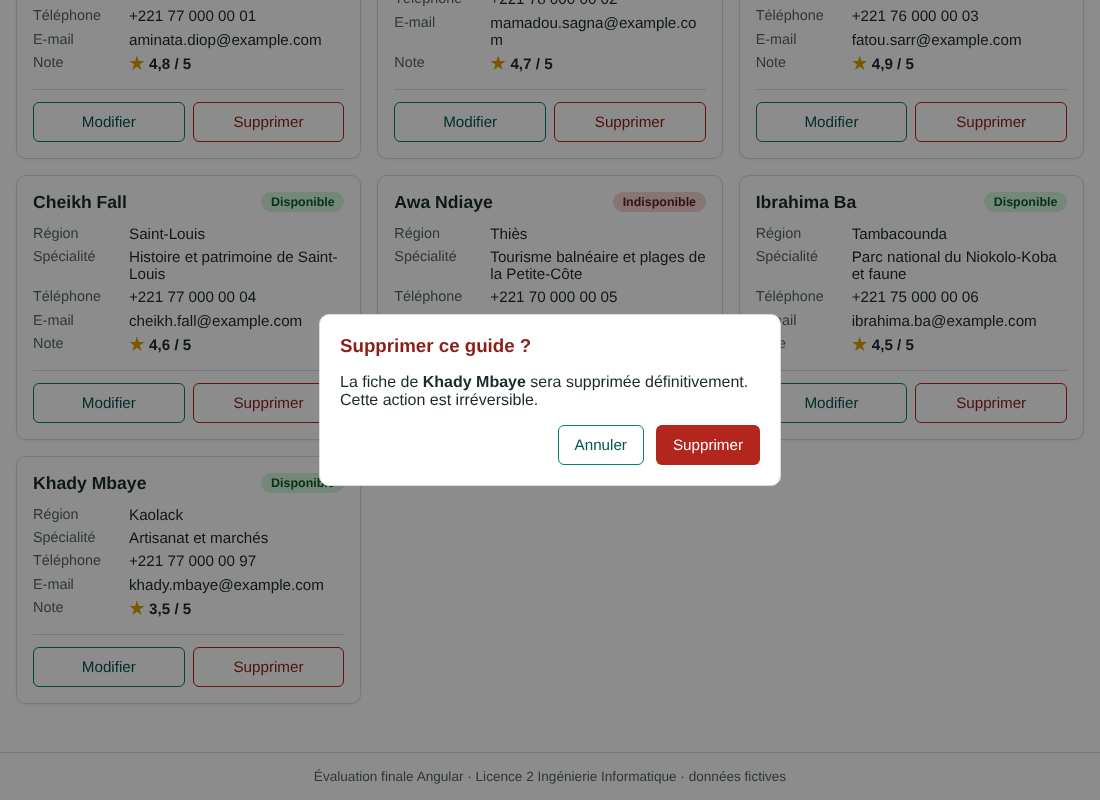
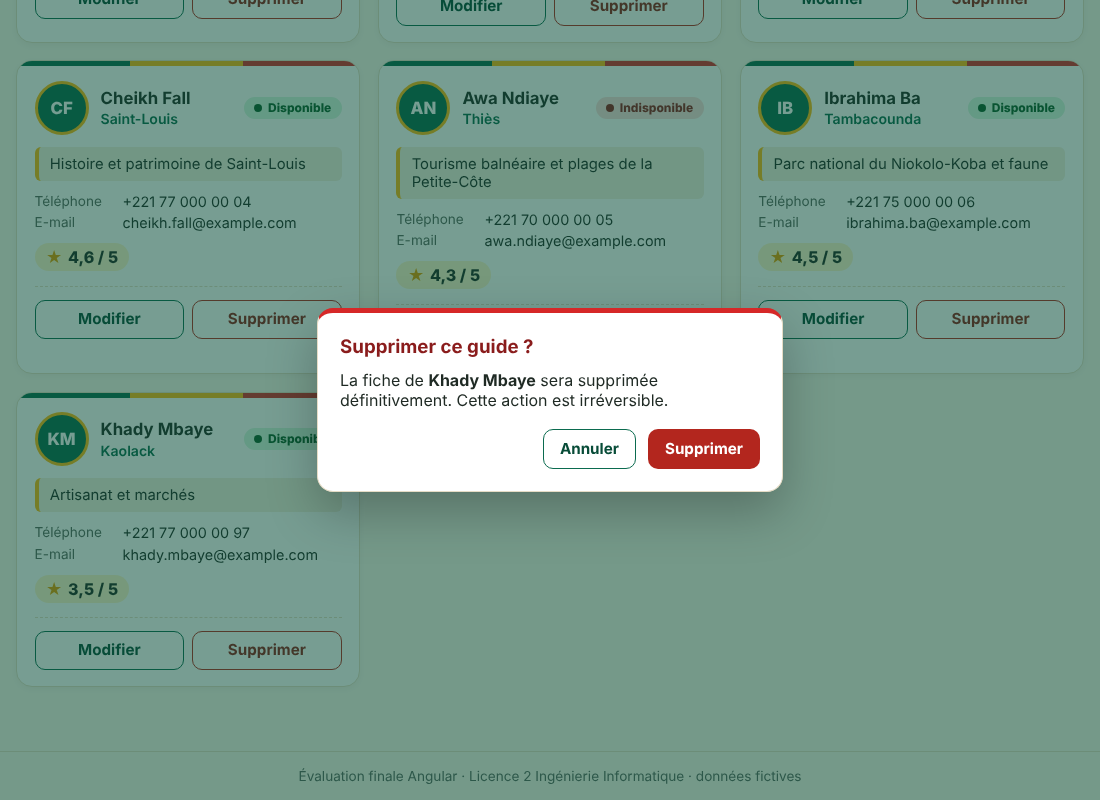
fix: remettre les boutons Modifier/supprimer dans le nouveau design

Changed region(s): [[0.0, 0.0, 0.9891, 0.875], [0.2473, 0.9375, 0.7418, 1.0]]

diff --git a/src/app/components/guide-list/guide-list.html b/src/app/components/guide-list/guide-list.html
@@ -91,6 +91,24 @@
             <span class="etoile" aria-hidden="true">★</span>
             <span class="note-valeur">{{ guide.note | noteFormat }}</span>
           </p>
+
+          <div class="carte-actions">
+            <a
+              class="btn btn-secondary"
+              [routerLink]="['/guides', guide.id, 'modifier']"
+              [attr.aria-label]="'Modifier la fiche de ' + guide.prenom + ' ' + guide.nom"
+            >
+              Modifier
+            </a>
+            <button
+              type="button"
+              class="btn btn-danger-outline"
+              (click)="demanderSuppression(guide)"
+              [attr.aria-label]="'Supprimer la fiche de ' + guide.prenom + ' ' + guide.nom"
+            >
+              Supprimer
+            </button>
+          </div>
         </li>
       }
     </ul>
@@ -98,6 +116,7 @@
     <div class="etat-vide">
       <p><strong>Aucun guide enregistré pour le moment.</strong></p>
       <p>Ajoutez un premier guide avec le formulaire.</p>
+      <a routerLink="/guides/nouveau" class="btn btn-primary">Ajouter un guide</a>
     </div>
   } @else {
     <div class="etat-vide">
@@ -109,3 +128,26 @@
     </div>
   }
 </section>
+
+<!-- Confirmation avant suppression : <dialog> natif (focus piégé, fermeture avec Échap). -->
+<dialog
+  #dialogueSuppression
+  class="dialogue"
+  aria-labelledby="titre-dialogue"
+  aria-describedby="texte-dialogue"
+  (close)="onDialogueFermee()"
+>
+  <h3 id="titre-dialogue">Supprimer ce guide ?</h3>
+  @if (guideASupprimer(); as guide) {
+    <p id="texte-dialogue">
+      La fiche de <strong>{{ guide.prenom }} {{ guide.nom }}</strong> sera supprimée définitivement.
+      Cette action est irréversible.
+    </p>
+  }
+  <div class="dialogue-actions">
+    <button type="button" class="btn btn-secondary" (click)="annulerSuppression()" autofocus>
+      Annuler
+    </button>
+    <button type="button" class="btn btn-danger" (click)="confirmerSuppression()">Supprimer</button>
+  </div>
+</dialog>

diff --git a/src/styles.css b/src/styles.css
@@ -1,10 +1,14 @@
 /* Styles globaux : couleurs communes et boutons réutilisés par plusieurs composants. */
 :root {
-  --vert: #087f73;
-  --vert-fonce: #05544c;
-  --bord: #d5dde0;
-  --texte: #1c2a2e;
-  --texte-doux: #55666b;
+  /* Palette commune à toutes les pages (reprend le design du répertoire). */
+  --vert: #0b6b4f;
+  --vert-fonce: #084c38;
+  --jaune: #fdb913;
+  --rouge: #d62828;
+  --sable: #fbf6ec;
+  --bord: #e6dcc6;
+  --texte: #1f2a24;
+  --texte-doux: #5b665f;
   --erreur: #b3261e;
   --erreur-fond: #fdecea;
 }
@@ -12,8 +16,14 @@
 body {
   margin: 0;
   color: var(--texte);
-  font-family: Arial, Helvetica, sans-serif;
-  background: #fff;
+  font-family:
+    'Segoe UI',
+    system-ui,
+    -apple-system,
+    Roboto,
+    Arial,
+    sans-serif;
+  background: var(--sable);
 }
 
 /* ---------- Boutons ---------- */
@@ -22,16 +32,17 @@ body {
   padding: 0.6rem 1rem;
   font: inherit;
   font-size: 0.95rem;
+  font-weight: 700;
   line-height: 1.2;
   text-align: center;
   text-decoration: none;
   border: 1px solid transparent;
-  border-radius: 6px;
+  border-radius: 10px;
   cursor: pointer;
 }
 
 .btn:focus-visible {
-  outline: 3px solid #f2b705;
+  outline: 3px solid var(--jaune);
   outline-offset: 2px;
 }
 
@@ -51,7 +62,7 @@ body {
 }
 
 .btn-secondary:hover {
-  background: #eef6f5;
+  background: #eaf4ef;
 }
 
 .btn-danger {

diff --git a/src/app/components/guide-form/guide-form.css b/src/app/components/guide-form/guide-form.css
@@ -24,9 +24,10 @@ h2 {
   grid-template-columns: 1fr 1fr;
   gap: 1rem 1.25rem;
   padding: 1.25rem;
-  background: #f3f8f7;
+  background: #fff;
   border: 1px solid var(--bord);
-  border-radius: 10px;
+  border-radius: 16px;
+  box-shadow: 0 10px 30px rgba(11, 107, 79, 0.12);
 }
 
 .champ {
@@ -37,7 +38,8 @@ h2 {
 
 label {
   font-size: 0.9rem;
-  font-weight: 600;
+  font-weight: 700;
+  color: var(--vert-fonce);
 }
 
 .obligatoire {
@@ -49,14 +51,14 @@ select {
   padding: 0.6rem 0.7rem;
   font: inherit;
   font-size: 1rem;
-  background: #fff;
-  border: 1px solid #9fb0b4;
-  border-radius: 6px;
+  background: #fffdf8;
+  border: 1.5px solid #c9c1ad;
+  border-radius: 10px;
 }
 
 input:focus-visible,
 select:focus-visible {
-  outline: 3px solid #f2b705;
+  outline: 3px solid var(--jaune);
   outline-offset: 2px;
 }
 
@@ -109,9 +111,9 @@ select[aria-invalid='true'] {
   padding: 2rem 1rem;
   text-align: center;
   color: var(--texte-doux);
-  background: #fafafa;
+  background: #fff;
   border: 2px dashed var(--bord);
-  border-radius: 10px;
+  border-radius: 16px;
 }
 
 /* Texte lu par les lecteurs d'écran, invisible à l'écran. */

diff --git a/src/app/components/guide-list/guide-list.css b/src/app/components/guide-list/guide-list.css
@@ -340,3 +340,51 @@ button:focus-visible {
     transform: none;
   }
 }
+
+/* ---------- Parties D et E : actions des cartes, état vide, boîte de confirmation ---------- */
+.carte-actions {
+  display: flex;
+  gap: 0.5rem;
+  margin-top: 0.9rem;
+  padding-top: 0.8rem;
+  border-top: 1px dashed var(--bord);
+}
+
+.carte-actions .btn {
+  flex: 1;
+}
+
+.etat-vide .btn {
+  margin-top: 0.5rem;
+}
+
+.dialogue {
+  max-width: min(90vw, 420px);
+  padding: 1.4rem;
+  color: var(--texte);
+  background: #fff;
+  border: 1px solid var(--bord);
+  border-top: 5px solid var(--rouge);
+  border-radius: 16px;
+  box-shadow: 0 20px 50px rgba(0, 0, 0, 0.25);
+}
+
+.dialogue::backdrop {
+  background: rgba(8, 76, 56, 0.55);
+}
+
+.dialogue h3 {
+  margin: 0 0 0.75rem;
+  color: #8a1c1c;
+}
+
+.dialogue p {
+  margin: 0;
+}
+
+.dialogue-actions {
+  display: flex;
+  justify-content: flex-end;
+  gap: 0.75rem;
+  margin-top: 1.2rem;
+}

diff --git a/src/app/app.css b/src/app/app.css
@@ -27,12 +27,12 @@ main:focus {
 
 .lien-evitement:focus {
   top: 0;
-  outline: 3px solid #f2b705;
+  outline: 3px solid var(--jaune);
 }
 
 /* ---------- En-tête ---------- */
 .entete {
-  background: var(--vert);
+  background: var(--vert-fonce);
   color: #fff;
 }
 
@@ -71,12 +71,12 @@ nav a:hover {
 }
 
 nav a.actif {
-  background: var(--vert-fonce);
+  background: rgba(255, 255, 255, 0.18);
   border-color: rgba(255, 255, 255, 0.6);
 }
 
 nav a:focus-visible {
-  outline: 3px solid #f2b705;
+  outline: 3px solid var(--jaune);
   outline-offset: 2px;
 }
 

diff --git a/src/app/components/not-found/not-found.ts b/src/app/components/not-found/not-found.ts
@@ -21,9 +21,9 @@ import { RouterLink } from '@angular/router';
       margin: 2rem auto;
       padding: 2rem 1rem;
       text-align: center;
-      background: #fafafa;
+      background: #fff;
       border: 2px dashed var(--bord);
-      border-radius: 10px;
+      border-radius: 16px;
     }
     h2 {
       margin-top: 0;

diff --git a/src/app/components/notification/notification.css b/src/app/components/notification/notification.css
@@ -47,6 +47,6 @@
 }
 
 .fermer:focus-visible {
-  outline: 3px solid #f2b705;
+  outline: 3px solid var(--jaune);
   outline-offset: 2px;
 }
